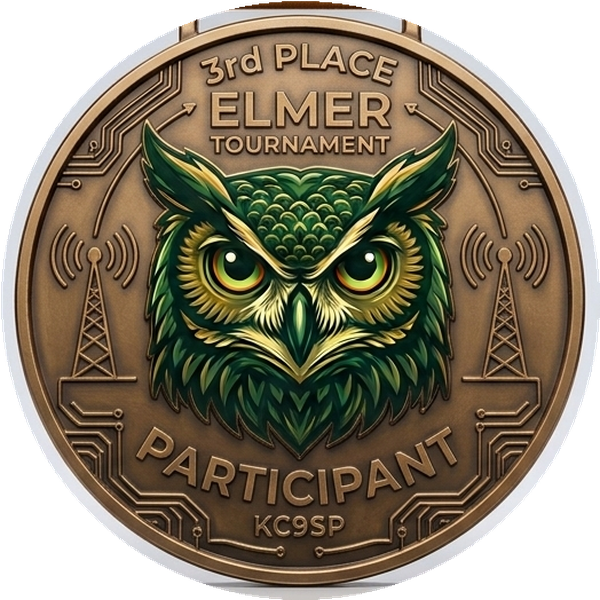
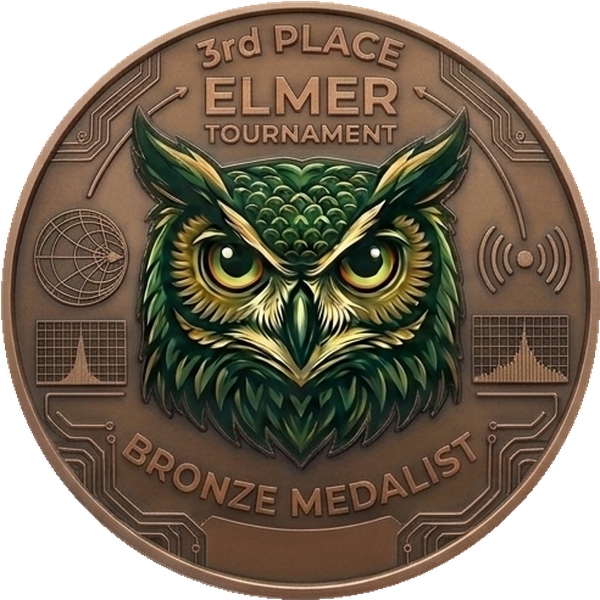
The bronze, without the callsign
Cut from the re-made render. The disc had to be found below where the
ribbon attaches this time, because the ribbon is yellow - as saturated as
the metal - and the first cut took it for part of the disc. The set is
complete and any club's to print.

diff --git a/README.md b/README.md
@@ -1532,13 +1532,8 @@ The medals are KC9SP's artwork, cut from the renders in `artwork/` into
 `elmer/static/medals/` and set on a drawn ribbon; the art's own ribbon is
 discarded, which is why the renders need not agree about its colour. Where the
 art is missing a drawn medal stands in, so the certificate never waits on a
-file. **The bronze is still the first render, with the callsign KC9SP struck
-into its face** — gold and silver were re-made without it. On a net KC9SP runs
-that is the issuer's mark; on any other club's wall it is somebody else's
-callsign, and the bronze should be replaced before that club prints a third
-place. A bronze can be *coloured* from the gold with Pillow — the metal shifts
-to copper and the owl stays green — but it keeps the gold's engraving, and
-"1st PLACE" on a third-place certificate is worse than a drawn medal.
+file. All three were re-made without a callsign on the face — CHAMPION,
+FINALIST, BRONZE MEDALIST — so the set is any club's to print.
 
 ### Practice opponents
 
